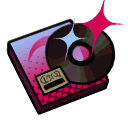
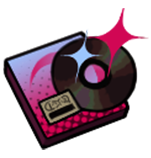
feat:皮肤系统早期开发完毕

diff --git a/BangDreamLib/Scripts/Patches/SkinVisualSupportPatches.cs b/BangDreamLib/Scripts/Patches/SkinVisualSupportPatches.cs
@@ -7,12 +7,20 @@ using BangDreamLib.Scripts.Utils;
 using Godot;
 using HarmonyLib;
 using MegaCrit.Sts2.Core.Assets;
+using MegaCrit.Sts2.Core.Context;
+using MegaCrit.Sts2.Core.Entities.Cards;
 using MegaCrit.Sts2.Core.Entities.Players;
 using MegaCrit.Sts2.Core.Entities.TreasureRelicPicking;
 using MegaCrit.Sts2.Core.Nodes.Cards;
 using MegaCrit.Sts2.Core.Nodes.Combat;
+using MegaCrit.Sts2.Core.Nodes.CommonUi;
 using MegaCrit.Sts2.Core.Nodes.RestSite;
+using MegaCrit.Sts2.Core.Nodes.Screens.Map;
 using MegaCrit.Sts2.Core.Nodes.Screens.TreasureRoomRelic;
+using MegaCrit.Sts2.Core.Rewards;
+using MegaCrit.Sts2.Core.Runs;
+using STS2RitsuLib.CardPiles;
+using STS2RitsuLib.CardPiles.Nodes;
 using STS2RitsuLib.Patching.Core;
 using STS2RitsuLib.Patching.Models;
 using STS2RitsuLib.Scaffolding.Characters.Visuals;
@@ -33,6 +41,11 @@ public class SkinVisualSupportPatches : IModPatches
         patcher.RegisterPatch<ArmPointingTexturePatch>();
         patcher.RegisterPatch<ArmFightTexturePatch>();
         patcher.RegisterPatch<MusicCardFramePatch>();
+        patcher.RegisterPatch<MapMarkerPatch>();
+        patcher.RegisterPatch<TopBarPatch>();
+        patcher.RegisterPatch<TopBarExtraDeckPatch>();
+        patcher.RegisterPatch<CombatCardPilePatch>();
+        patcher.RegisterPatch<CardRewardPatch>();
     }
 }
 
@@ -302,6 +315,186 @@ internal class MusicCardFramePatch : IPatchMethod
                 ____frame ??= new TextureRect();
                 ____frame.Texture = PreloadManager.Cache.GetTexture2D(path);
                 ____frame.Material = null;
+            }
+        }
+    }
+}
+
+internal class MapMarkerPatch : IPatchMethod
+{
+    public static string PatchId => "create_map_marker_by_skin_info";
+
+    public static ModPatchTarget[] GetTargets()
+    {
+        return [new ModPatchTarget(typeof(NMapMarker), nameof(NMapMarker.Initialize))];
+    }
+
+    public static void Postfix(NMapMarker __instance, Player player)
+    {
+        if (player.Character is ISkinSupportCharacter)
+        {
+            var path = BangDreamConst.PlayerSkin.Get(player).GetSkin()?.SkinTemplate.Ui.MapMarker;
+            if (path != null)
+            {
+                __instance.Texture = PreloadManager.Cache.GetTexture2D(path);
+            }
+        }
+    }
+}
+
+internal class TopBarPatch : IPatchMethod
+{
+    public static string PatchId => "create_top_bar_ui_by_skin_info";
+
+    public static ModPatchTarget[] GetTargets()
+    {
+        return [new ModPatchTarget(typeof(NTopBar), nameof(NTopBar.Initialize))];
+    }
+
+    public static void Postfix(NTopBar __instance, IRunState runState)
+    {
+        var player = LocalContext.GetMe(runState);
+        if (player?.Character is ISkinSupportCharacter)
+        {
+            var ui = BangDreamConst.PlayerSkin.Get(player).GetSkin()?.SkinTemplate.Ui;
+            if (ui != null)
+            {
+                var hpIconPath = ui.TopBarHpIcon;
+                var goldIconPath = ui.TopBarGoldIcon;
+                var floorIconPath = ui.TopBarFloorIcon;
+                var mapIconPath = ui.TopBarMapIcon;
+                var deckIconPath = ui.TopBarDeckIcon;
+                var settingIconPath = ui.TopBarSettingIcon;
+
+                if (hpIconPath != null)
+                {
+                    var textureRect = __instance.Hp.GetNodeOrNull<TextureRect>("HpIcon");
+                    if (textureRect != null)
+                        textureRect.Texture = PreloadManager.Cache.GetTexture2D(hpIconPath);
+                }
+
+                if (goldIconPath != null)
+                {
+                    var textureRect = __instance.Gold.GetNodeOrNull<TextureRect>("GoldIcon");
+                    if (textureRect != null)
+                        textureRect.Texture = PreloadManager.Cache.GetTexture2D(goldIconPath);
+                }
+
+                if (floorIconPath != null)
+                {
+                    var textureRect =
+                        __instance.FloorIcon.GetNodeOrNull<TextureRect>("FloorIconPositioner/FloorInfoIcon");
+                    if (textureRect != null)
+                        textureRect.Texture = PreloadManager.Cache.GetTexture2D(floorIconPath);
+                }
+
+                if (mapIconPath != null)
+                {
+                    var textureRect = __instance.Map.GetNodeOrNull<TextureRect>("Control/Icon");
+                    if (textureRect != null)
+                        textureRect.Texture = PreloadManager.Cache.GetTexture2D(mapIconPath);
+                }
+
+                if (deckIconPath != null)
+                {
+                    var textureRect = __instance.Deck.GetNodeOrNull<TextureRect>("Control/Icon");
+                    if (textureRect != null)
+                        textureRect.Texture = PreloadManager.Cache.GetTexture2D(deckIconPath);
+                }
+
+                if (settingIconPath != null)
+                {
+                    var textureRect = __instance.Pause.GetNodeOrNull<TextureRect>("Control/Icon");
+                    if (textureRect != null)
+                        textureRect.Texture = PreloadManager.Cache.GetTexture2D(settingIconPath);
+                }
+            }
+        }
+    }
+}
+
+internal class TopBarExtraDeckPatch : IPatchMethod
+{
+    public static string PatchId => "create_top_bar_extra_deck_ui_by_skin_info";
+
+    public static ModPatchTarget[] GetTargets()
+    {
+        return [new ModPatchTarget(typeof(NModCardPileButton), nameof(NModCardPileButton.Initialize))];
+    }
+
+    public static void Postfix(NModCardPileButton __instance, Player player, Control ____icon)
+    {
+        if (__instance.Definition is { Id: "BANG_DREAM_LIB_CARDPILE_EXTRA_DECK", Style: ModCardPileUiStyle.TopBarDeck }
+            && LocalContext.IsMe(player) && player.Character is ISkinSupportCharacter)
+        {
+            var path = BangDreamConst.PlayerSkin.Get(player).GetSkin()?.SkinTemplate.Ui.TopBarExtraDeckIcon;
+            if (path != null && ____icon is TextureRect textureRect)
+            {
+                textureRect.Texture = PreloadManager.Cache.GetTexture2D(path);
+            }
+        }
+    }
+}
+
+internal class CombatCardPilePatch : IPatchMethod
+{
+    public static string PatchId => "create_pile_button_by_skin_info";
+
+    public static ModPatchTarget[] GetTargets()
+    {
+        return [new ModPatchTarget(typeof(NCombatCardPile), nameof(NCombatCardPile.Initialize))];
+    }
+
+    public static void Postfix(NCombatCardPile __instance, Player player, Control ____icon)
+    {
+        if (player.Character is ISkinSupportCharacter)
+        {
+            if (__instance is NDrawPileButton)
+            {
+                var path = BangDreamConst.PlayerSkin.Get(player).GetSkin()?.SkinTemplate.Ui.CombatDrawIcon;
+                if (path != null && ____icon is TextureRect textureRect)
+                {
+                    textureRect.Texture = PreloadManager.Cache.GetTexture2D(path);
+                }
+            }
+            else if (__instance is NDiscardPileButton)
+            {
+                var path = BangDreamConst.PlayerSkin.Get(player).GetSkin()?.SkinTemplate.Ui.CombatDiscardIcon;
+                if (path != null && ____icon is TextureRect textureRect)
+                {
+                    textureRect.Texture = PreloadManager.Cache.GetTexture2D(path);
+                }
+            }
+        }
+    }
+}
+
+internal class CardRewardPatch : IPatchMethod
+{
+    public static string PatchId => "create_card_reward_icon_by_skin_info";
+
+    public static ModPatchTarget[] GetTargets()
+    {
+        return [new ModPatchTarget(typeof(CardReward), "IconPath", MethodType.Getter)];
+    }
+
+    public static void Postfix(CardReward __instance, List<CardCreationResult> ____cards, ref string __result)
+    {
+        if (LocalContext.IsMe(__instance.Player) && __instance.Player.Character is ISkinSupportCharacter)
+        {
+            var ui = BangDreamConst.PlayerSkin.Get(__instance.Player).GetSkin()?.SkinTemplate.Ui;
+            if (ui != null)
+            {
+                var newIconPath = ____cards[0].Card.Rarity switch
+                {
+                    CardRarity.Uncommon => ui.RewardUncommonCardIcon,
+                    CardRarity.Rare => ui.RewardRareCardIcon,
+                    _ => ui.RewardCommonCardIcon
+                };
+                if (newIconPath != null)
+                {
+                    __result = newIconPath;
+                }
             }
         }
     }

diff --git a/ItsCrychic/Scripts/Nodes/SakikoLingeredCounter.cs b/ItsCrychic/Scripts/Nodes/SakikoLingeredCounter.cs
@@ -15,7 +15,6 @@ public partial class SakikoLingeredCounter : LingeredCounter
     }
 
 
-
     protected override void OnEnergyChanged()
     {
         if (_counterText != null)
@@ -25,21 +24,19 @@ public partial class SakikoLingeredCounter : LingeredCounter
 
         if (_counterImg != null)
         {
-            var textureRects = (from textureRect in _counterImg.GetChildren()
-                where textureRect is TextureRect
-                select textureRect).ToList();
+            var textureRects = _counterImg.GetChildren().OfType<TextureRect>().ToList();
             foreach (var textureRect in textureRects)
             {
-                ((TextureRect)textureRect).Visible = false;
+                textureRect.Visible = false;
             }
 
             switch (_counter?.Counter)
             {
                 case >= 7:
-                    ((TextureRect)textureRects[6]).Visible = true;
+                    textureRects[6].Visible = true;
                     break;
-                case > 0:
-                    ((TextureRect)textureRects[_counter.Counter - 1]).Visible = true;
+                case >= 0:
+                    textureRects[_counter.Counter].Visible = true;
                     break;
             }
         }

diff --git a/ItsCrychic/Scripts/Nodes/SakikoLingeredCounterSpecial.cs b/ItsCrychic/Scripts/Nodes/SakikoLingeredCounterSpecial.cs
@@ -29,21 +29,19 @@ public partial class SakikoLingeredCounterSpecial : LingeredCounter
     {
         if (_counterImg != null)
         {
-            var textureRects = (from textureRect in _counterImg.GetChildren()
-                where textureRect is TextureRect
-                select textureRect).ToList();
+            var textureRects = _counterImg.GetChildren().OfType<TextureRect>().ToList();
             foreach (var textureRect in textureRects)
             {
-                ((TextureRect)textureRect).Visible = false;
+                textureRect.Visible = false;
             }
 
             switch (_counter?.Counter)
             {
                 case >= 7:
-                    ((TextureRect)textureRects[6]).Visible = true;
+                    textureRects[6].Visible = true;
                     break;
-                case > 0:
-                    ((TextureRect)textureRects[_counter.Counter - 1]).Visible = true;
+                case >= 0:
+                    textureRects[_counter.Counter].Visible = true;
                     break;
             }
         }

diff --git a/BangDreamLib/Scripts/Utils/Infos/SkinInfo.cs b/BangDreamLib/Scripts/Utils/Infos/SkinInfo.cs
@@ -163,7 +163,7 @@ public record Ui(
     string? TopBarGoldIcon = null,
     string? TopBarHpIcon = null,
     string? TopBarFloorIcon = null,
-    string? TopBarAscensionIcon = null,
+    string? TopBarAscensionIcon = null, // 可用性待定
     string? TopBarMapIcon = null,
     string? TopBarDeckIcon = null,
     string? TopBarExtraDeckIcon = null,